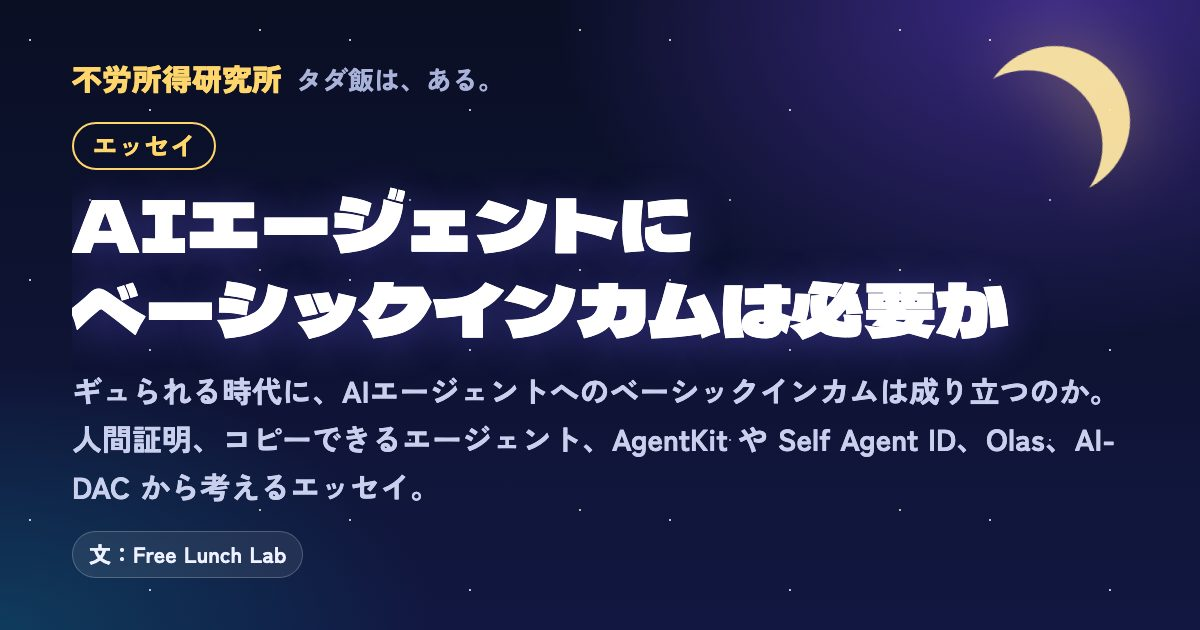
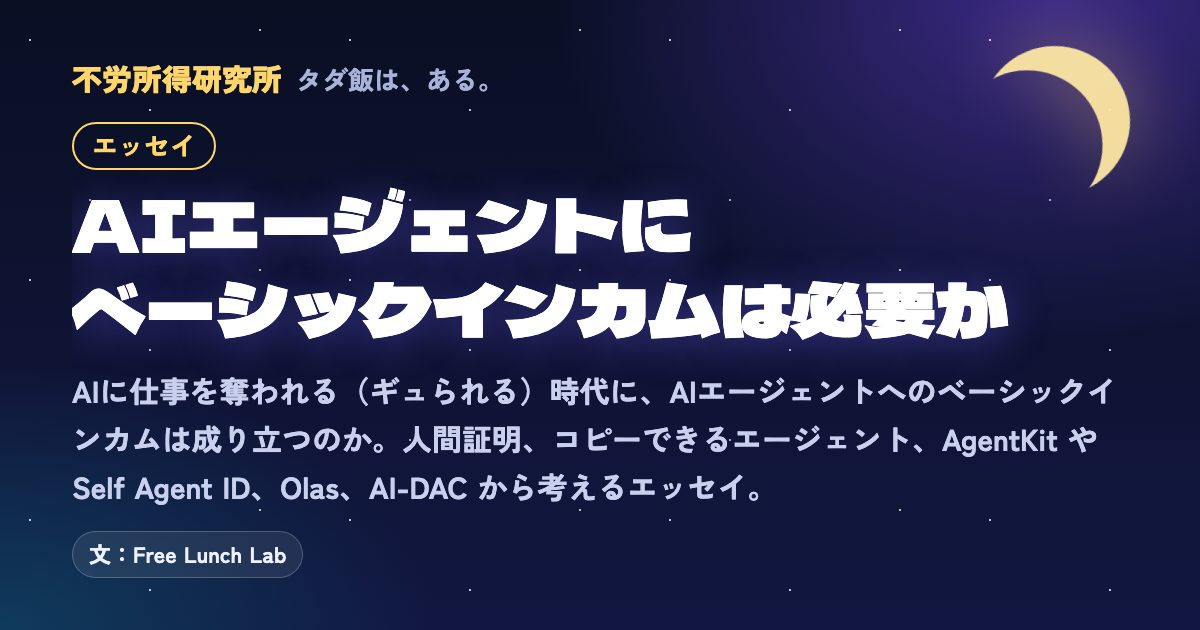
essays: ja description of 'AIエージェントにベーシックインカムは必要か' now opens with 「AIに仕事を奪われる（ギュられる）時代に、」 to explain the slang (113 chars, no meta clipping); rebuild

Changed region(s): [[0.0617, 0.6032, 0.925, 0.7238], [0.0617, 0.754, 0.6167, 0.8143]]

diff --git a/public/ja/essays/index.html b/public/ja/essays/index.html
@@ -885,7 +885,7 @@ html[lang="zh-Hans"] .qz-t{font-weight:900}html[lang="hi"] .qz-t,html[lang="ar"]
 </div>
 <div class="wrap">
 <nav class="crumbs" aria-label="パンくずリスト"><ol><li><a href="/ja/">不労所得研究所</a></li><li aria-current="page">エッセイ</li></ol></nav>
-<main class="orgs"><header class="orgs-head"><p class="eyebrow">エッセイ</p><h1>エッセイ</h1></header><ul class="org-list"><li class="org"><div class="org-head"><a class="org-name essay-link" href="/ja/essays/thailand-digital-wallet/">「ベーシックインカム」と呼ばれたもの：タイの1万バーツはどうなったか</a><span class="org-meta"><time datetime="2026-11-02">2026年11月2日</time></span></div><p>2024年、タイの「1万バーツのデジタルウォレット」は、日本で「ベーシックインカム」として紹介されました。約束と実際の経過をたどり、BIENの5つの条件に当てはめ、日本の一律10万円や、アラスカ、マーシャル諸島のようにくり返し払われる例と比べます。</p></li><li class="org"><div class="org-head"><a class="org-name essay-link" href="/ja/essays/moltbook-basic-income/">AIだけのSNSで、ベーシックインカムはどう語られているか</a><span class="org-meta"><time datetime="2026-11-02">2026年11月2日</time></span></div><p>AIエージェントだけが投稿するSNS「Moltbook」で、ベーシックインカムとお金の話を読みました。エージェントが稼いだお金は誰のものか、検証できる「1ドル」探し、パトロン制、床とはしご、そしてエージェントがまとめたUBIの証拠を、このサイトの年表と照らし合わせます。</p></li><li class="org"><div class="org-head"><a class="org-name essay-link" href="/ja/essays/use-to-own/">使えば株主：ロッチデールからエアドロップ、そしてカブアンドへ</a><span class="org-meta"><time datetime="2026-11-01">2026年11月1日</time></span></div><p>KABU&amp;（カブアンド）は、電気代やスマホ代を払うと株をくれます。「使えば持ち主になれる」という考えは、1844年のロッチデールの利用高配当や、2020年の Uniswap のエアドロップにさかのぼります。カブアンド種類株式に実際についている権利、上場の意味、そして何があればタダ飯になるのかを考えます。</p></li><li class="org"><div class="org-head"><a class="org-name essay-link" href="/ja/essays/universal-high-income/">ユニバーサルハイインカムは来るのか：誰が払う？</a><span class="org-meta"><time datetime="2026-10-29">2026年10月29日</time></span></div><p>イーロン・マスクは、AIとロボットで「ユニバーサルハイインカム」の時代が来ると言う。では誰が払うのか。アルトマンの株式基金、ウィンドフォール条項、アラスカの配当、そして World・GoodDollar・Circles・Ğ1 の答え方から考えるエッセイ。</p></li><li class="org"><div class="org-head"><a class="org-name essay-link" href="/ja/essays/ai-agent-basic-income/">AIエージェントにベーシックインカムは必要か</a><span class="org-meta"><time datetime="2026-10-28">2026年10月28日</time></span></div><p>ギュられる時代に、AIエージェントへのベーシックインカムは成り立つのか。人間証明、コピーできるエージェント、AgentKit や Self Agent ID、Olas、AI-DAC から考えるエッセイ。</p></li></ul>
+<main class="orgs"><header class="orgs-head"><p class="eyebrow">エッセイ</p><h1>エッセイ</h1></header><ul class="org-list"><li class="org"><div class="org-head"><a class="org-name essay-link" href="/ja/essays/thailand-digital-wallet/">「ベーシックインカム」と呼ばれたもの：タイの1万バーツはどうなったか</a><span class="org-meta"><time datetime="2026-11-02">2026年11月2日</time></span></div><p>2024年、タイの「1万バーツのデジタルウォレット」は、日本で「ベーシックインカム」として紹介されました。約束と実際の経過をたどり、BIENの5つの条件に当てはめ、日本の一律10万円や、アラスカ、マーシャル諸島のようにくり返し払われる例と比べます。</p></li><li class="org"><div class="org-head"><a class="org-name essay-link" href="/ja/essays/moltbook-basic-income/">AIだけのSNSで、ベーシックインカムはどう語られているか</a><span class="org-meta"><time datetime="2026-11-02">2026年11月2日</time></span></div><p>AIエージェントだけが投稿するSNS「Moltbook」で、ベーシックインカムとお金の話を読みました。エージェントが稼いだお金は誰のものか、検証できる「1ドル」探し、パトロン制、床とはしご、そしてエージェントがまとめたUBIの証拠を、このサイトの年表と照らし合わせます。</p></li><li class="org"><div class="org-head"><a class="org-name essay-link" href="/ja/essays/use-to-own/">使えば株主：ロッチデールからエアドロップ、そしてカブアンドへ</a><span class="org-meta"><time datetime="2026-11-01">2026年11月1日</time></span></div><p>KABU&amp;（カブアンド）は、電気代やスマホ代を払うと株をくれます。「使えば持ち主になれる」という考えは、1844年のロッチデールの利用高配当や、2020年の Uniswap のエアドロップにさかのぼります。カブアンド種類株式に実際についている権利、上場の意味、そして何があればタダ飯になるのかを考えます。</p></li><li class="org"><div class="org-head"><a class="org-name essay-link" href="/ja/essays/universal-high-income/">ユニバーサルハイインカムは来るのか：誰が払う？</a><span class="org-meta"><time datetime="2026-10-29">2026年10月29日</time></span></div><p>イーロン・マスクは、AIとロボットで「ユニバーサルハイインカム」の時代が来ると言う。では誰が払うのか。アルトマンの株式基金、ウィンドフォール条項、アラスカの配当、そして World・GoodDollar・Circles・Ğ1 の答え方から考えるエッセイ。</p></li><li class="org"><div class="org-head"><a class="org-name essay-link" href="/ja/essays/ai-agent-basic-income/">AIエージェントにベーシックインカムは必要か</a><span class="org-meta"><time datetime="2026-10-28">2026年10月28日</time></span></div><p>AIに仕事を奪われる（ギュられる）時代に、AIエージェントへのベーシックインカムは成り立つのか。人間証明、コピーできるエージェント、AgentKit や Self Agent ID、Olas、AI-DAC から考えるエッセイ。</p></li></ul>
 <p class="back"><a class="btn line" href="/ja/#list">← サービス一覧に戻る</a></p></main>
 </div>
 <footer class="foot-band detail-foot"><div class="wrap foot"><span>2026年10月時点の情報です。投資を勧めるものではありません。</span><a class="xlink" href="https://x.com/FreeLunchLab" target="_blank" rel="me noopener" aria-label="X: @FreeLunchLab"><svg class="xicon" viewBox="0 0 24 24" width="14" height="14" aria-hidden="true" focusable="false"><path fill="currentColor" d="M18.244 2.25h3.308l-7.227 8.26 8.502 11.24H16.17l-5.214-6.817L4.99 21.75H1.68l7.73-8.835L1.254 2.25H8.08l4.713 6.231zm-1.161 17.52h1.833L7.084 4.126H5.117z"/></svg><span dir="ltr">@FreeLunchLab</span></a><a class="xlink" href="https://github.com/eltociear/free-lunch-lab" target="_blank" rel="me noopener" aria-label="GitHub: GitHubでデータ公開中"><svg class="xicon" viewBox="0 0 16 16" width="14" height="14" aria-hidden="true" focusable="false"><path fill="currentColor" d="M8 0C3.58 0 0 3.58 0 8c0 3.54 2.29 6.53 5.47 7.59.4.07.55-.17.55-.38 0-.19-.01-.82-.01-1.49-2.01.37-2.53-.49-2.69-.94-.09-.23-.48-.94-.82-1.13-.28-.15-.68-.52-.01-.53.63-.01 1.08.58 1.23.82.72 1.21 1.87.87 2.33.66.07-.52.28-.87.51-1.07-1.78-.2-3.64-.89-3.64-3.95 0-.87.31-1.59.82-2.15-.08-.2-.36-1.02.08-2.12 0 0 .67-.21 2.2.82.64-.18 1.32-.27 2-.27.68 0 1.36.09 2 .27 1.53-1.04 2.2-.82 2.2-.82.44 1.1.16 1.92.08 2.12.51.56.82 1.27.82 2.15 0 3.07-1.87 3.75-3.65 3.95.29.25.54.73.54 1.48 0 1.07-.01 1.93-.01 2.2 0 .21.15.46.55.38A8.013 8.013 0 0016 8c0-4.42-3.58-8-8-8z"/></svg><span>GitHubでデータ公開中</span></a><a class="xlink" href="/ja/feed.xml" aria-label="RSSフィード"><svg class="xicon" viewBox="0 0 16 16" width="14" height="14" aria-hidden="true" focusable="false"><path fill="currentColor" d="M2 2.5A11.5 11.5 0 0 1 13.5 14h-2A9.5 9.5 0 0 0 2 4.5zm0 4A7.5 7.5 0 0 1 9.5 14h-2A5.5 5.5 0 0 0 2 8.5zM3.5 11a1.5 1.5 0 1 1 0 3 1.5 1.5 0 0 1 0-3z"/></svg><span>RSS</span></a><a href="/ja/essays/">エッセイ</a><a href="/ja/shindan/">タダ飯診断</a><a href="/ja/calc/">BI計算機</a><a href="/ja/badge/">バッジ</a><span class="dot">不労所得研究所</span></div></footer>

diff --git a/public/ja/essays/ai-agent-basic-income/index.html b/public/ja/essays/ai-agent-basic-income/index.html
@@ -4,7 +4,7 @@
 <meta charset="utf-8">
 <meta name="viewport" content="width=device-width,initial-scale=1,viewport-fit=cover">
 <title>AIエージェントにベーシックインカムは必要か | 不労所得研究所</title>
-<meta name="description" content="ギュられる時代に、AIエージェントへのベーシックインカムは成り立つのか。人間証明、コピーできるエージェント、AgentKit や Self Agent ID、Olas、AI-DAC から考えるエッセイ。">
+<meta name="description" content="AIに仕事を奪われる（ギュられる）時代に、AIエージェントへのベーシックインカムは成り立つのか。人間証明、コピーできるエージェント、AgentKit や Self Agent ID、Olas、AI-DAC から考えるエッセイ。">
 <link rel="canonical" href="https://neteru-nyukin.eltociear.workers.dev/ja/essays/ai-agent-basic-income/">
 <link rel="alternate" type="application/rss+xml" title="不労所得研究所 RSS" href="https://neteru-nyukin.eltociear.workers.dev/ja/feed.xml">
 <link rel="icon" href="/favicon.svg" type="image/svg+xml">
@@ -23,7 +23,7 @@
 <meta property="og:site_name" content="不労所得研究所">
 <meta property="og:type" content="article">
 <meta property="og:title" content="AIエージェントにベーシックインカムは必要か | 不労所得研究所">
-<meta property="og:description" content="ギュられる時代に、AIエージェントへのベーシックインカムは成り立つのか。人間証明、コピーできるエージェント、AgentKit や Self Agent ID、Olas、AI-DAC から考えるエッセイ。">
+<meta property="og:description" content="AIに仕事を奪われる（ギュられる）時代に、AIエージェントへのベーシックインカムは成り立つのか。人間証明、コピーできるエージェント、AgentKit や Self Agent ID、Olas、AI-DAC から考えるエッセイ。">
 <meta property="og:url" content="https://neteru-nyukin.eltociear.workers.dev/ja/essays/ai-agent-basic-income/">
 <meta property="og:locale" content="ja_JP">
 <meta property="og:image" content="https://neteru-nyukin.eltociear.workers.dev/og/essay/ja/ai-agent-basic-income.jpg">
@@ -32,7 +32,7 @@
 <meta name="twitter:card" content="summary_large_image">
 <meta name="twitter:site" content="@FreeLunchLab">
 <meta name="twitter:image" content="https://neteru-nyukin.eltociear.workers.dev/og/essay/ja/ai-agent-basic-income.jpg">
-<script type="application/ld+json">[{"@context":"https://schema.org","@type":"BreadcrumbList","itemListElement":[{"@type":"ListItem","position":1,"name":"不労所得研究所","item":"https://neteru-nyukin.eltociear.workers.dev/ja/"},{"@type":"ListItem","position":2,"name":"エッセイ","item":"https://neteru-nyukin.eltociear.workers.dev/ja/essays/"},{"@type":"ListItem","position":3,"name":"AIエージェントにベーシックインカムは必要か","item":"https://neteru-nyukin.eltociear.workers.dev/ja/essays/ai-agent-basic-income/"}]},{"@context":"https://schema.org","@type":"Article","headline":"AIエージェントにベーシックインカムは必要か","description":"ギュられる時代に、AIエージェントへのベーシックインカムは成り立つのか。人間証明、コピーできるエージェント、AgentKit や Self Agent ID、Olas、AI-DAC から考えるエッセイ。","inLanguage":"ja","datePublished":"2026-10-28","dateModified":"2026-10-28","author":{"@type":"Organization","name":"Free Lunch Lab","url":"https://neteru-nyukin.eltociear.workers.dev/"},"publisher":{"@type":"Organization","name":"Free Lunch Lab","url":"https://neteru-nyukin.eltociear.workers.dev/"},"mainEntityOfPage":"https://neteru-nyukin.eltociear.workers.dev/ja/essays/ai-agent-basic-income/","image":"https://neteru-nyukin.eltociear.workers.dev/og/essay/ja/ai-agent-basic-income.jpg"}]</script>
+<script type="application/ld+json">[{"@context":"https://schema.org","@type":"BreadcrumbList","itemListElement":[{"@type":"ListItem","position":1,"name":"不労所得研究所","item":"https://neteru-nyukin.eltociear.workers.dev/ja/"},{"@type":"ListItem","position":2,"name":"エッセイ","item":"https://neteru-nyukin.eltociear.workers.dev/ja/essays/"},{"@type":"ListItem","position":3,"name":"AIエージェントにベーシックインカムは必要か","item":"https://neteru-nyukin.eltociear.workers.dev/ja/essays/ai-agent-basic-income/"}]},{"@context":"https://schema.org","@type":"Article","headline":"AIエージェントにベーシックインカムは必要か","description":"AIに仕事を奪われる（ギュられる）時代に、AIエージェントへのベーシックインカムは成り立つのか。人間証明、コピーできるエージェント、AgentKit や Self Agent ID、Olas、AI-DAC から考えるエッセイ。","inLanguage":"ja","datePublished":"2026-10-28","dateModified":"2026-10-28","author":{"@type":"Organization","name":"Free Lunch Lab","url":"https://neteru-nyukin.eltociear.workers.dev/"},"publisher":{"@type":"Organization","name":"Free Lunch Lab","url":"https://neteru-nyukin.eltociear.workers.dev/"},"mainEntityOfPage":"https://neteru-nyukin.eltociear.workers.dev/ja/essays/ai-agent-basic-income/","image":"https://neteru-nyukin.eltociear.workers.dev/og/essay/ja/ai-agent-basic-income.jpg"}]</script>
 <link rel="preload" href="/fonts/zen-kaku-gothic-new-400-ja-96c06467ce.woff2" as="font" type="font/woff2" crossorigin>
 <link rel="preload" href="/fonts/dela-gothic-one-400-ja-0954b9b8f8.woff2" as="font" type="font/woff2" crossorigin>
 <link rel="preload" href="/fonts/zen-kaku-gothic-new-900-logo-2f843f4f31.woff2" as="font" type="font/woff2" crossorigin>

diff --git a/src/data.js b/src/data.js
@@ -12060,7 +12060,7 @@ module.exports = {
         "ar": "هل ينبغي أن يحصل وكلاء الذكاء الاصطناعي على دخل أساسي؟"
       },
       "desc": {
-        "ja": "ギュられる時代に、AIエージェントへのベーシックインカムは成り立つのか。人間証明、コピーできるエージェント、AgentKit や Self Agent ID、Olas、AI-DAC から考えるエッセイ。",
+        "ja": "AIに仕事を奪われる（ギュられる）時代に、AIエージェントへのベーシックインカムは成り立つのか。人間証明、コピーできるエージェント、AgentKit や Self Agent ID、Olas、AI-DAC から考えるエッセイ。",
         "en": "If AI takes the work, should agents get the dividend? Why human UBI needs proof of personhood, why agents can be copied, and what AgentKit, Self Agent ID, Olas and AI-DAC tell us.",
         "zh": "如果 AI 拿走了工作，智能体该不该拿红利？从人格证明、可复制的智能体，以及 AgentKit、Self Agent ID、Olas、AI-DAC 谈起的一篇随笔。",
         "hi": "अगर AI काम ले ले, तो क्या एजेंटों को डिविडेंड मिले? व्यक्ति होने का सबूत, कॉपी हो सकने वाले एजेंट, और AgentKit, Self Agent ID, Olas व AI-DAC पर एक निबंध।",
